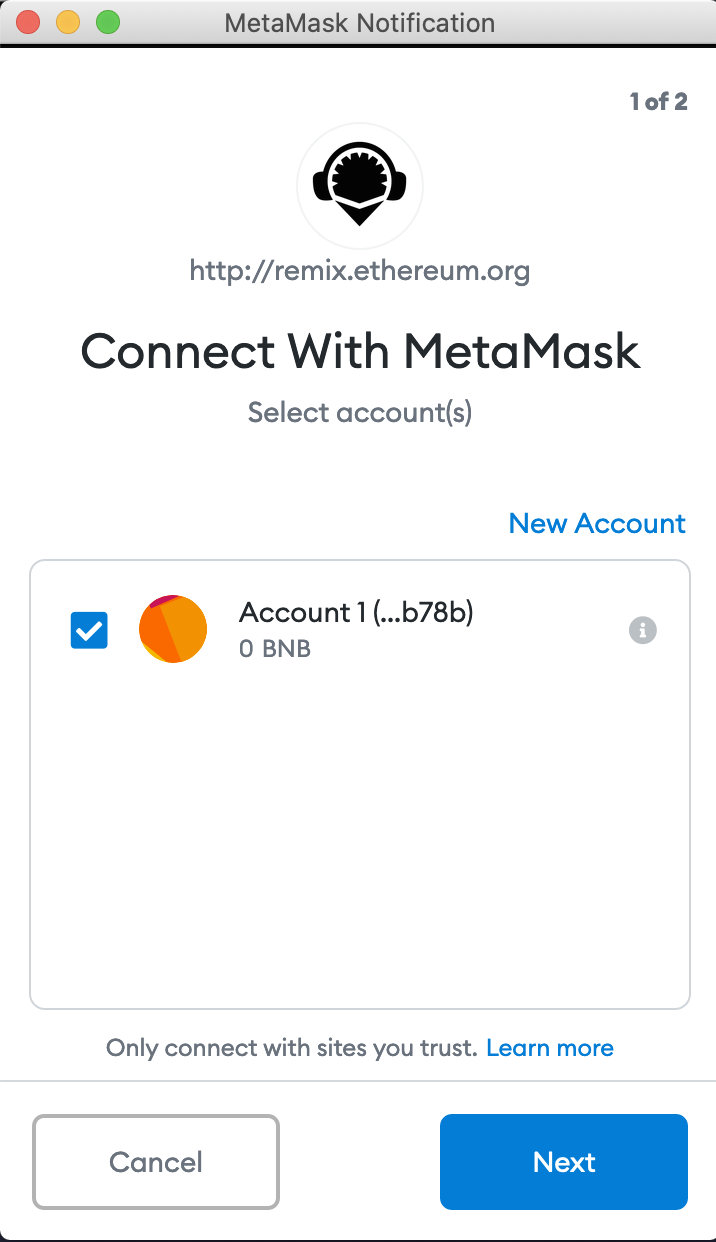
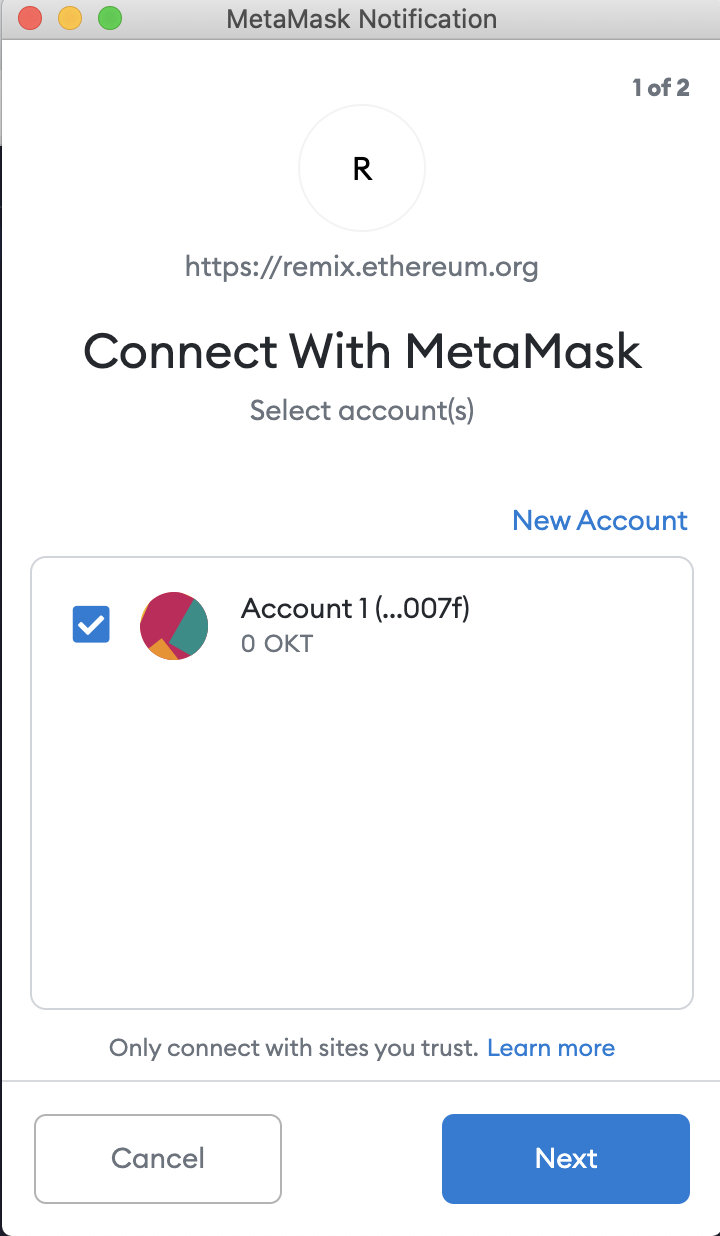
delete bsc relative word & update picture

diff --git a/docs/developers/deploy/remix.md b/docs/developers/deploy/remix.md
@@ -6,14 +6,13 @@ This dapp implements a "Hello World" style application that echoes a message pas
 ### Setting up [Remix IDE](https://remix.ethereum.org/)
 - Remix is an online IDE to develop smart contracts.
 - You need to choose Solidity Compiler and Deploy and Run Transactions.
-.. figure:: ./img/okexchain-image.jpg
 
 ![avatar](../../img/remix-01.png)
 - Go to File Explorers, And Create a new file, Name it MegaCoin.sol
 - Copy/Paste the Smart contract below into the newly created file MegaCoin.sol
 
 ### The smart contract
-- Create new contract OIP20Tokens.sol and copy contract code from the bep20 token template [here](https://docs.binance.org/smart-chain/developer/BEP20Token.template)
+- Create new contract OIP20Tokens.sol and copy contract code from the oip20 token template [here](https://docs.binance.org/smart-chain/developer/BEP20Token.template)
 - Modify “name”, “symbol”, “decimals” and “totalSupply” according to your requirements.
 ![avatar](../../img/remix-02.png)
 
@@ -28,16 +27,16 @@ A contract in the sense of Solidity is a collection of code (its functions) and 
 - Step4: Click “ABI” to copy the contract abi and save it.
 ![avatar](../../img/remix-03.png)
 
-Now, We have to deploy our smart contract on Binance Smart Chain Network. For that, we have to connect to web3 world, this can be done my many services like Metamask, Brave, Portis etc. We will be using Metamask. Please follow this [tutorial to setup a Metamask Account](https://docs.binance.org/smart-chain/wallet/metamask.html).
+Now, We have to deploy our smart contract on OKExChain Network. For that, we have to connect to web3 world, this can be done my many services like Metamask, Brave, Portis etc. We will be using Metamask. Please follow this [tutorial to setup a Metamask Account](https://docs.binance.org/smart-chain/wallet/metamask.html).
 - Open Metamask and select Custom RPC from the networks dropdown
 - Go to setting page
 ![avatar](../../img/remix-04.png)
 
 - Add a new network
 ![avatar](../../img/remix-05.png)
-- Testnet * [RPC URLs](https://docs.binance.org/smart-chain/developer/rpc.html) * ChainID: 97 * Symbol: BNB * Block Explorer:
+- Testnet * [RPC URLs](https://okexchain-docs.readthedocs.io/en/add-evm-doc/developers/blockchainDetail/rpc.html) * okexchain-65 * Symbol: OKT * Block Explorer:
 https://www.oklink.com/okexchain-test
-- Mainnet * [RPC URLs](https://docs.binance.org/smart-chain/developer/rpc.html) * ChainID: okexchain-66 * Symbol: BNB * Block Explorer: 
+- Mainnet * [RPC URLs](https://okexchain-docs.readthedocs.io/en/add-evm-doc/developers/blockchainDetail/rpc.html) * ChainID: okexchain-66 * Symbol: OKT * Block Explorer: 
 https://www.oklink.com/
 - Go ahead and click save
 - Copy your address from Metamask
@@ -49,4 +48,4 @@ https://www.oklink.com/
 ![avatar](../../img/remix-07.png)
 - Once Metamask is connected to Remix, the ‘Deploy’ transaction would generate another metamask popup that requires transaction confirmation.
 ![avatar](../../img/remix-08.png)
-Congratulations! You have successfully deployed a OIP20 Contract. Now you can interact with the Smart Contract. Check the deployment status here: https://testnet.bscscan.com/
+Congratulations! You have successfully deployed a OIP20 Contract. Now you can interact with the Smart Contract. Check the deployment status here: https://www.oklink.com/okexchain-test

diff --git a/docs/developers/deploy/verify-proxy-contract.md b/docs/developers/deploy/verify-proxy-contract.md
@@ -1,6 +1,6 @@
 # Deploy - Verify Proxy Contract
 ### How to Verify Proxy Contract
-Please learn how to deploy an upgradable OIP20 contract here
+Please learn how to deploy an upgradable OIP20 contract <!--here-->
 ### Flatten your contract
 #### Install flattener
 ```npm install truffle-flattener -g```
@@ -34,7 +34,7 @@ $ truffle-flattener BEP20UpgradeableProxy.sol > BEP20UpgradeableProxyFlattened.s
 ![avatar](../../img/verify-proxy-contract-02.png)
 ### Compile Proxy Contract
 - Create new contract proxy.sol and copy contract code from flattened
-`OIP20UpgradeableProxyFlattened.sol`. Here is and [example]()
+`OIP20UpgradeableProxyFlattened.sol`. <!--Here is and [example]()-->
 - Compile the proxy contractClick on this button to switch to the compile page
 - Select “OIP20UpgradeableProxy” contract
 - Enable “Auto compile” and “optimization”Click “ABI” to copy the contract abi and save it.
@@ -46,8 +46,8 @@ Logic: The address of OIP20Implementation contract Admin: admin cannot be OIP20 
 Data: use the initialization data you saved before
 - Click the “Deploy” button and Metamask will pop up
 - Click the “confirm” button to sign and broadcast transaction to OKExChain.
-### Verify Proxy Contract on BscScan
-Note: The way to verify the BEP20TokenImplementation contract is the same as before.
+### Verify Proxy Contract on OKLink
+Note: The way to verify the OIP20TokenImplementation contract is the same as before.
 - Go to your contact page and click on “Verify and Publish”
 ![avatar](../../img/verify-proxy-contract-04.png)
 -Select Single file

diff --git a/docs/developers/blockchainDetail/okexchain-fullnode.md b/docs/developers/blockchainDetail/okexchain-fullnode.md
@@ -26,23 +26,16 @@ git clone https://github.com/okex/okexchain
 cd okexchain
 make geth
 ```
-or you can download the pre-build binaries from [release page](https://github.com/okex/okexchain/branches/stale) or follow the instructions below:
-```
-# Linux
-wget --no-check-certificate https://github.com/binance-chain/bsc/releases/download/v1.0.2/geth_linux
-# MacOS
-wget --no-check-certificate https://github.com/binance-chain/bsc/releases/download/v1.0.2/geth_mac
-```
+
 2.Download the config files
 Download `genesis.json` and `config.toml` by:
 ```
-## mainet
-wget --no-check-certificate  $(curl -s https://api.github.com/repos/binance-chain/bsc/releases/latest |grep browser_ |grep mainnet |cut -d\" -f4)
-unzip mainnet.zip
 
 ## testnet
-wget --no-check-certificate  $(curl -s https://api.github.com/repos/binance-chain/bsc/releases/latest |grep browser_ |grep testnet |cut -d\" -f4)
-unzip testnet.zip
+git clone git@github.com:okex/mainnet.git
+$ shasum -a 256 genesis.json
+1705b40f65f9f77083658a12e557e3225ecba529ec1328dcb08c0df1d4e42125  genesis.json
+okexchaind init <your_custom_moniker>
 ```
 3.Write genesis state locally
 ```

diff --git a/docs/developers/deploy/verify-contract.md b/docs/developers/deploy/verify-contract.md
@@ -1,12 +1,12 @@
 # Deploy - Verify Contract
-### Verify Your Contract on BscScan
+### Verify Your Contract on OKLink
 The recommended way to verify a smart contract is using plugin. It is easier to read, imports are maintained, licenses are maintained.
 
 Verified using Truffle
 
-Example:
+<!--Example:
 https://testnet.bscscan.com/token/0x68D2E27940CA48109Fa3DaD0D2C8B27E64a0c6cf
-
+-->
 GitHub Project:
 https://github.com/huangsuyu/verify-example
 ### Truffle
@@ -72,6 +72,6 @@ truffle run verify OIP20Tokens@{contract-address} --network testnet
 You should see the following output:
 ```
 Verifying OIP20Tokens@0x68D2E27940CA48109Fa3DaD0D2C8B27E64a0c6cf
-Pass - Verified: https://testnet.bscscan.com/address/0x68D2E27940CA48109Fa3DaD0D2C8B27E64a0c6cf#contracts
+<!--Pass - Verified: https://testnet.bscscan.com/address/0x68D2E27940CA48109Fa3DaD0D2C8B27E64a0c6cf#contracts-->
 Successfully verified 1 contract(s).
 ```

diff --git a/docs/developers/general/create-wallet.md b/docs/developers/general/create-wallet.md
@@ -8,10 +8,8 @@ This article is a guide about key management strategy on client side of your Dec
 
 ### Connect to OkExChain network
 ```javascript
-    // mainnet
-     const web3 = new Web3('https://bsc-dataseed1.binance.org:443');
     // testnet
-    const web3 = new Web3('https://data-seed-prebsc-1-s1.binance.org:8545');
+    const web3 = new Web3('http://13.230.73.12:8545');
 ```
 
 ### Set up account
@@ -31,7 +29,7 @@ cconst account = web3.eth.accounts.privateKeyToAccount("$private-key")
 const Web3 = require('web3');
 async function main() {
 
-    const web3 = new Web3('https://bsc-dataseed1.binance.org:443');
+    const web3 = new Web3('http://13.230.73.12:8545');
     const loader = setupLoader({ provider: web3 }).web3;
 
     const account = web3.eth.accounts.create();

diff --git a/docs/developers/OIP20Tokens/issue-token.md b/docs/developers/OIP20Tokens/issue-token.md
@@ -6,7 +6,7 @@ Compile and Deploy OIP20 Contract
 ![avatar](../../img/issue-token-01.png)
 1.Select solidity language
 ![avatar](../../img/issue-token-02.png)
-1.Create new contract OIP20Token.sol and copy contract code from the oip20 token template here
+1.Create new contract OIP20Token.sol and copy contract code from the oip20 token template [here](https://github.com/okex/OIPs/blob/master/docs/final/OIP-20.md)
 
 2.Modify “name”, “symbol”, “decimals” and “totalSupply” according to your requirements.
 ![avatar](../../img/issue-token-03.png)

diff --git a/docs/developers/deploy/truffle.md b/docs/developers/deploy/truffle.md
@@ -131,5 +131,5 @@ Summary
 > Remember your address, transaction_hash and other details provided would differ, Above is just to provide an idea of structure.
 
 Congratulations! You have successfully deployed OIP20 Smart Contract. Now you can interact with the Smart Contract.
-You can check the deployment status here: https://okexbeta.bafang.com/ or https://okexbeta.bafang.com/
+You can check the deployment status here: [https://www.oklink.com/](https://www.oklink.com/) or [https://www.oklink.com/okexchain-test](https://www.oklink.com/okexchain-test)
 

diff --git a/docs/developers/OIP20Tokens/introduction.md b/docs/developers/OIP20Tokens/introduction.md
@@ -18,11 +18,11 @@ Then users can use [Remix IDE](https://remix.ethereum.org/) and [Metamask](https
 Connect to OKEXChain's public RPC endpoint
 ```
 const Web3 = require('web3');
-// mainnet
-const web3 = new Web3('https://bsc-dataseed1.binance.org:443');
+<!--// mainnet
+const web3 = new Web3('https://bsc-dataseed1.binance.org:443');-->
 
 // testnet
-const web3 = new Web3('https://data-seed-prebsc-1-s1.binance.org:8545');
+const web3 = new Web3('http://13.230.73.12:8545');
 ```
 Create a wallet
 ```
